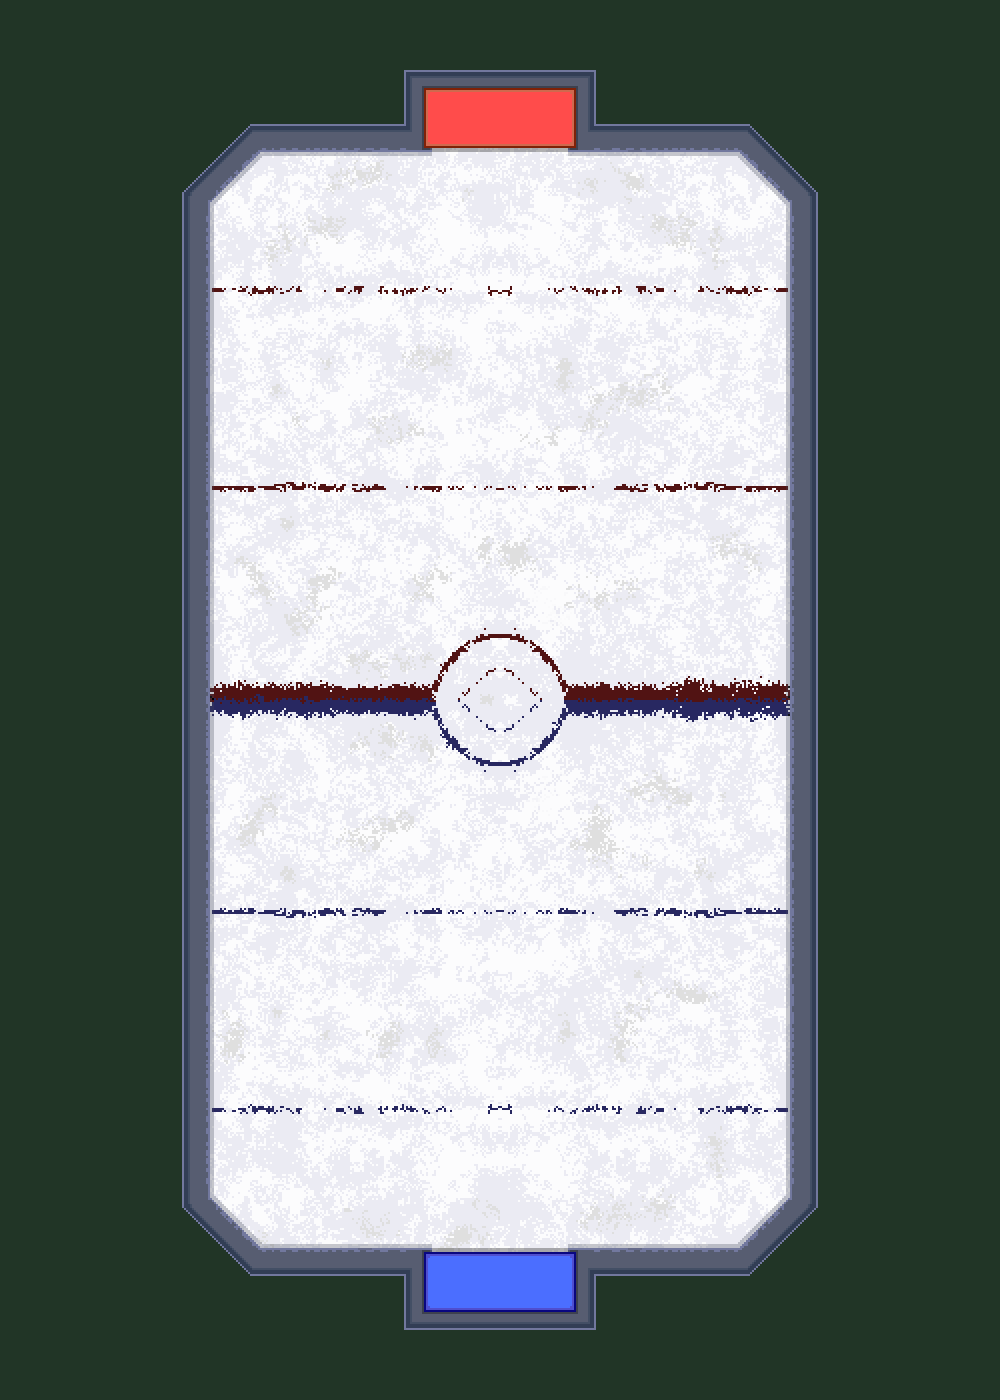
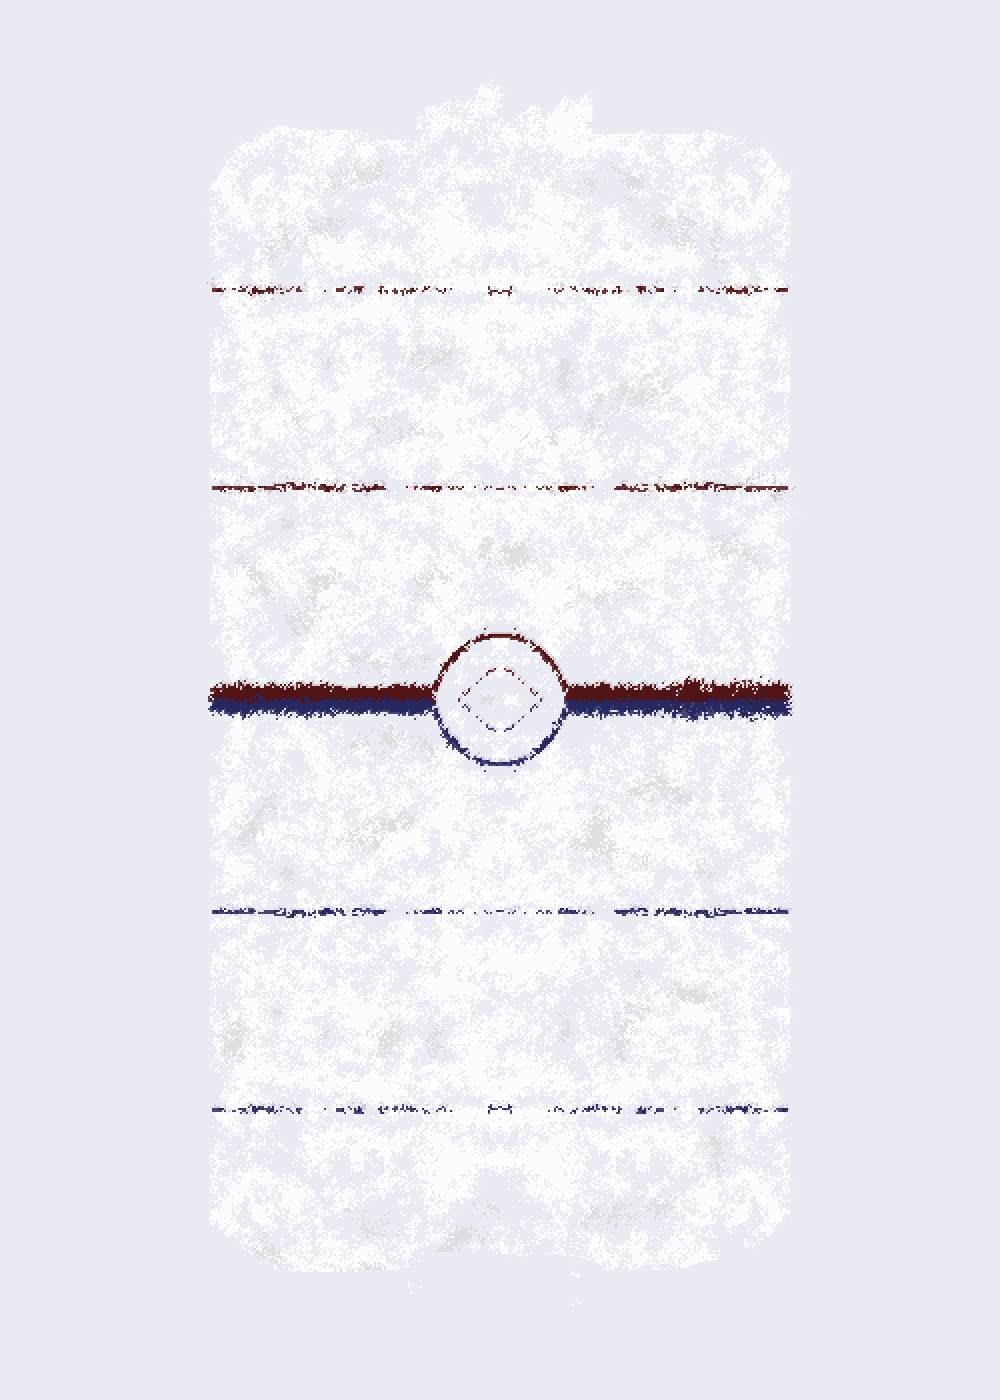
art and other stuff

diff --git a/src/hockey/hockey-game.js b/src/hockey/hockey-game.js
@@ -8,7 +8,6 @@ class HockeyGame {
 		];
 
 		this.bounds = [];
-		this.plyrOnlyBounds = [];
 		for(let b of BOUNDS) {
 			const s = game.phaser.add.sprite(b.x, b.y, null);
 			game.phaser.physics.enable([s], Phaser.Physics.P2JS);
@@ -17,16 +16,6 @@ class HockeyGame {
 			s.body.rotation = b.r;
 			s.body.debug = DEBUG;
 			this.bounds.push(s);
-		}
-
-		for(let b of PLYR_ONLY_BOUNDS) {
-			const s = game.phaser.add.sprite(b.x, b.y, null);
-			game.phaser.physics.enable([s], Phaser.Physics.P2JS);
-			s.body.static = true;
-			s.body.addRectangle(b.w, b.h);
-			s.body.rotation = b.r;
-			s.body.debug = DEBUG;
-			this.plyrOnlyBounds.push(s);
 		}
 
 		this.puck = new HockeyPuck(400, 700);
@@ -137,15 +126,10 @@ class HockeyGame {
 	checkEvents() {
 		const allPlayers = this.teams[0].players.concat(this.teams[1].players);
 
-		// @SCORING
-		if (game.utils.magnitude(this.puck.sprite.body.velocity) < 2) {
-			if (game.utils.dist(this.puck.sprite.position.x, this.puck.sprite.position.y, GOAL_1.x, GOAL_1.y) < C.GOAL_RADIUS) {
-				// blue team scores
-				this.opts.onScore(TEAM_COLORS.red);
-			} else if (game.utils.dist(this.puck.sprite.position.x, this.puck.sprite.position.y, GOAL_2.x, GOAL_2.y) < C.GOAL_RADIUS) {
-				// red team scores
-				this.opts.onScore(TEAM_COLORS.blue);
-			}
+		if (this.puck.sprite.position.y > 1110) {
+			this.opts.onScore(TEAM_COLORS.blue);
+		} else if (this.puck.sprite.position.y < 290) {
+			this.opts.onScore(TEAM_COLORS.red);
 		}
 	}
 
@@ -158,9 +142,6 @@ class HockeyGame {
 				for(let b of this.bounds) {
 					game.phaser.physics.arcade.collide(p.sprite, b);
 					game.phaser.physics.arcade.collide(p.sprite, this.puck.sprite);
-				}
-				for(let b of this.plyrOnlyBounds) {
-					game.phaser.physics.arcade.collide(p.sprite, b);
 				}
 			}
 			t.update();

diff --git a/src/hockey/hockey-player.js b/src/hockey/hockey-player.js
@@ -22,9 +22,9 @@ class HockeyPlayer extends Movable {
 		this.sprite.pivot.set(0.5);
 		this.sprite.bringToTop();
 		game.phaser.physics.p2.enable([this.sprite], Phaser.Physics.ARCADE);
-		this.sprite.body.setCircle(18);
-		this.sprite.body.restitution = 0.8;
-		this.sprite.body.damping = 0.75;
+		this.sprite.body.setCircle(18, -2, -2);
+		this.sprite.body.damping = 0.55;
+		this.sprite.body.fixedRotation = true;
 		this.sprite.body.debug = DEBUG;
 
 		this.shootRing = game.phaser.add.sprite(x, y, color == TEAM_COLORS.red ? "redshootring" : "blueshootring");
@@ -51,6 +51,9 @@ class HockeyPlayer extends Movable {
 	}
 
 	render() {
+		if (game.utils.magnitude(this.sprite.body.velocity) > 1) {
+			this.sprite.angle = (Math.atan2(this.sprite.body.velocity.y, this.sprite.body.velocity.x)*180/Math.PI) + 90;
+		}
 		this.shootRing.angle += 1;
 		this.shootRing.position.x = this.sprite.position.x;
 		this.shootRing.position.y = this.sprite.position.y;

diff --git a/src/hockey/hockey-constants.js b/src/hockey/hockey-constants.js
@@ -20,73 +20,70 @@ const BOUNDS = [
 	},
 	{
 		x: 108,
-		y: 0,
+		y: 145,
 		w: 430,
 		h: 303,
 		r: 0
 	},
 	{
 		x: 692,
-		y: 0,
+		y: 145,
 		w: 430,
 		h: 303,
 		r: 0
 	},
 	{
 		x: 108,
-		y: 1400,
+		y: 1400 - 145,
 		w: 430,
 		h: 303,
 		r: 0
 	},
 	{
 		x: 692,
-		y: 1400,
+		y: 1400 - 145,
 		w: 430,
 		h: 303,
 		r: 0
 	},
 	{
 		x: 792,
-		y: 1400,
+		y: 1400 - 145,
 		w: 430,
 		h: 303,
 		r: Math.PI/4
 	},
 	{
 		x: 10,
-		y: 1400,
+		y: 1400 - 145,
 		w: 430,
 		h: 303,
 		r: -Math.PI/4
 	},
 	{
 		x: 10,
-		y: 90,
+		y: 235,
 		w: 430,
 		h: 303,
 		r: -Math.PI/4
 	},
 	{
 		x: 790,
-		y: 90,
+		y: 235,
 		w: 430,
 		h: 303,
 		r: Math.PI/4
 	},
-];
-
-const PLYR_ONLY_BOUNDS = [
 	{
 		x: 108,
-		y: 0,
+		y: -30 + 145,
 		w: 1430,
 		h: 303,
 		r: 0
 	},
 	{
 		x: 108,
-		y: 1400,
+		y: 1430 - 145,
 		w: 1430,
 		h: 303,
 		r: 0

diff --git a/src/controllers/play.js b/src/controllers/play.js
@@ -2,7 +2,9 @@
 class PlayController {
 	constructor(params) {
 		this.destroyables = [];
+		this.topRink = game.phaser.add.sprite(-100, 0, "rinktop");
 		this.destroyables.push(game.phaser.add.sprite(-100, 0, "rink"));
+		this.destroyables.push(this.topRink);
 		game.phaser.world.setBounds(-100, -50, 1000, 1400);
 		game.phaser.camera.y = 600;
 
@@ -75,6 +77,7 @@ class PlayController {
 
 	render() {
 		this.hockeyGame.render();
+		this.topRink.bringToTop();
 		this.ui.bringToTop();
 		this.blueScore.bringToTop();
 		this.redScore.bringToTop();

diff --git a/src/hockey/moveable.js b/src/hockey/moveable.js
@@ -8,8 +8,7 @@ class Movable {
 		const fy = position.y;
 
 		const theta = Math.atan2(sy - fy, sx - fx) + Math.PI;
-		let force = game.utils.dist(sx, sy, fx, fy)*4;
-		force = Math.max(110, force);
+		let force = game.utils.dist(sx, sy, fx, fy)*8;
 		console.log(force);
 
 		this.sprite.body.velocity.x += Math.cos(theta)*force;
@@ -24,7 +23,7 @@ class Movable {
 
 	clampVelocity() { 
 		const m = game.utils.magnitude(this.sprite.body.velocity);
-		if (m < 20) {
+		if (m < 25) {
 			this.sprite.body.setZeroVelocity();
 		}
 	}

diff --git a/src/loader.js b/src/loader.js
@@ -2,6 +2,7 @@ class Loader {
 	load(g) {
 		g.load.image("logo", "assets/logo.png");
 		g.load.image("rink", "assets/rink.png");
+		g.load.image("rinktop", "assets/rinktop.png");
 		g.load.image("red-player", "assets/red-player.png");
 		g.load.image("blue-player", "assets/blue-player.png");
 		g.load.image("puck", "assets/puck.png");

diff --git a/src/game.js b/src/game.js
@@ -58,7 +58,7 @@ class Game {
 
 	create() {
 		this.phaser.physics.startSystem(Phaser.Physics.P2JS);
-		this.phaser.physics.p2.world.defaultContactMaterial.restitution = 0.7;
+		this.phaser.physics.p2.world.defaultContactMaterial.restitution = 0.9;
 		this.input.init();
 
 		this.switchState(GAME_STATES.IN_GAME);

diff --git a/src/constants.js b/src/constants.js
@@ -1,11 +1,11 @@
-let DEBUG = true;
+let DEBUG = false;
 
 const C = {		
 	TURN_SPEED: 1200,
 	PREFIGHT_SPEED: 750,
 	FIGHT_SPEED: 1000,
 	FIGHT_KNOCKBACK: 150,
-	MAX_MOVEMENT: 225,
+	MAX_MOVEMENT: 100,
 	MAX_SHOT_RANGE: 300,
 	FIGHT_MIN_KNOCKBACK: 160,
 	PLAYER_COLLISION_RADIUS: 20,
